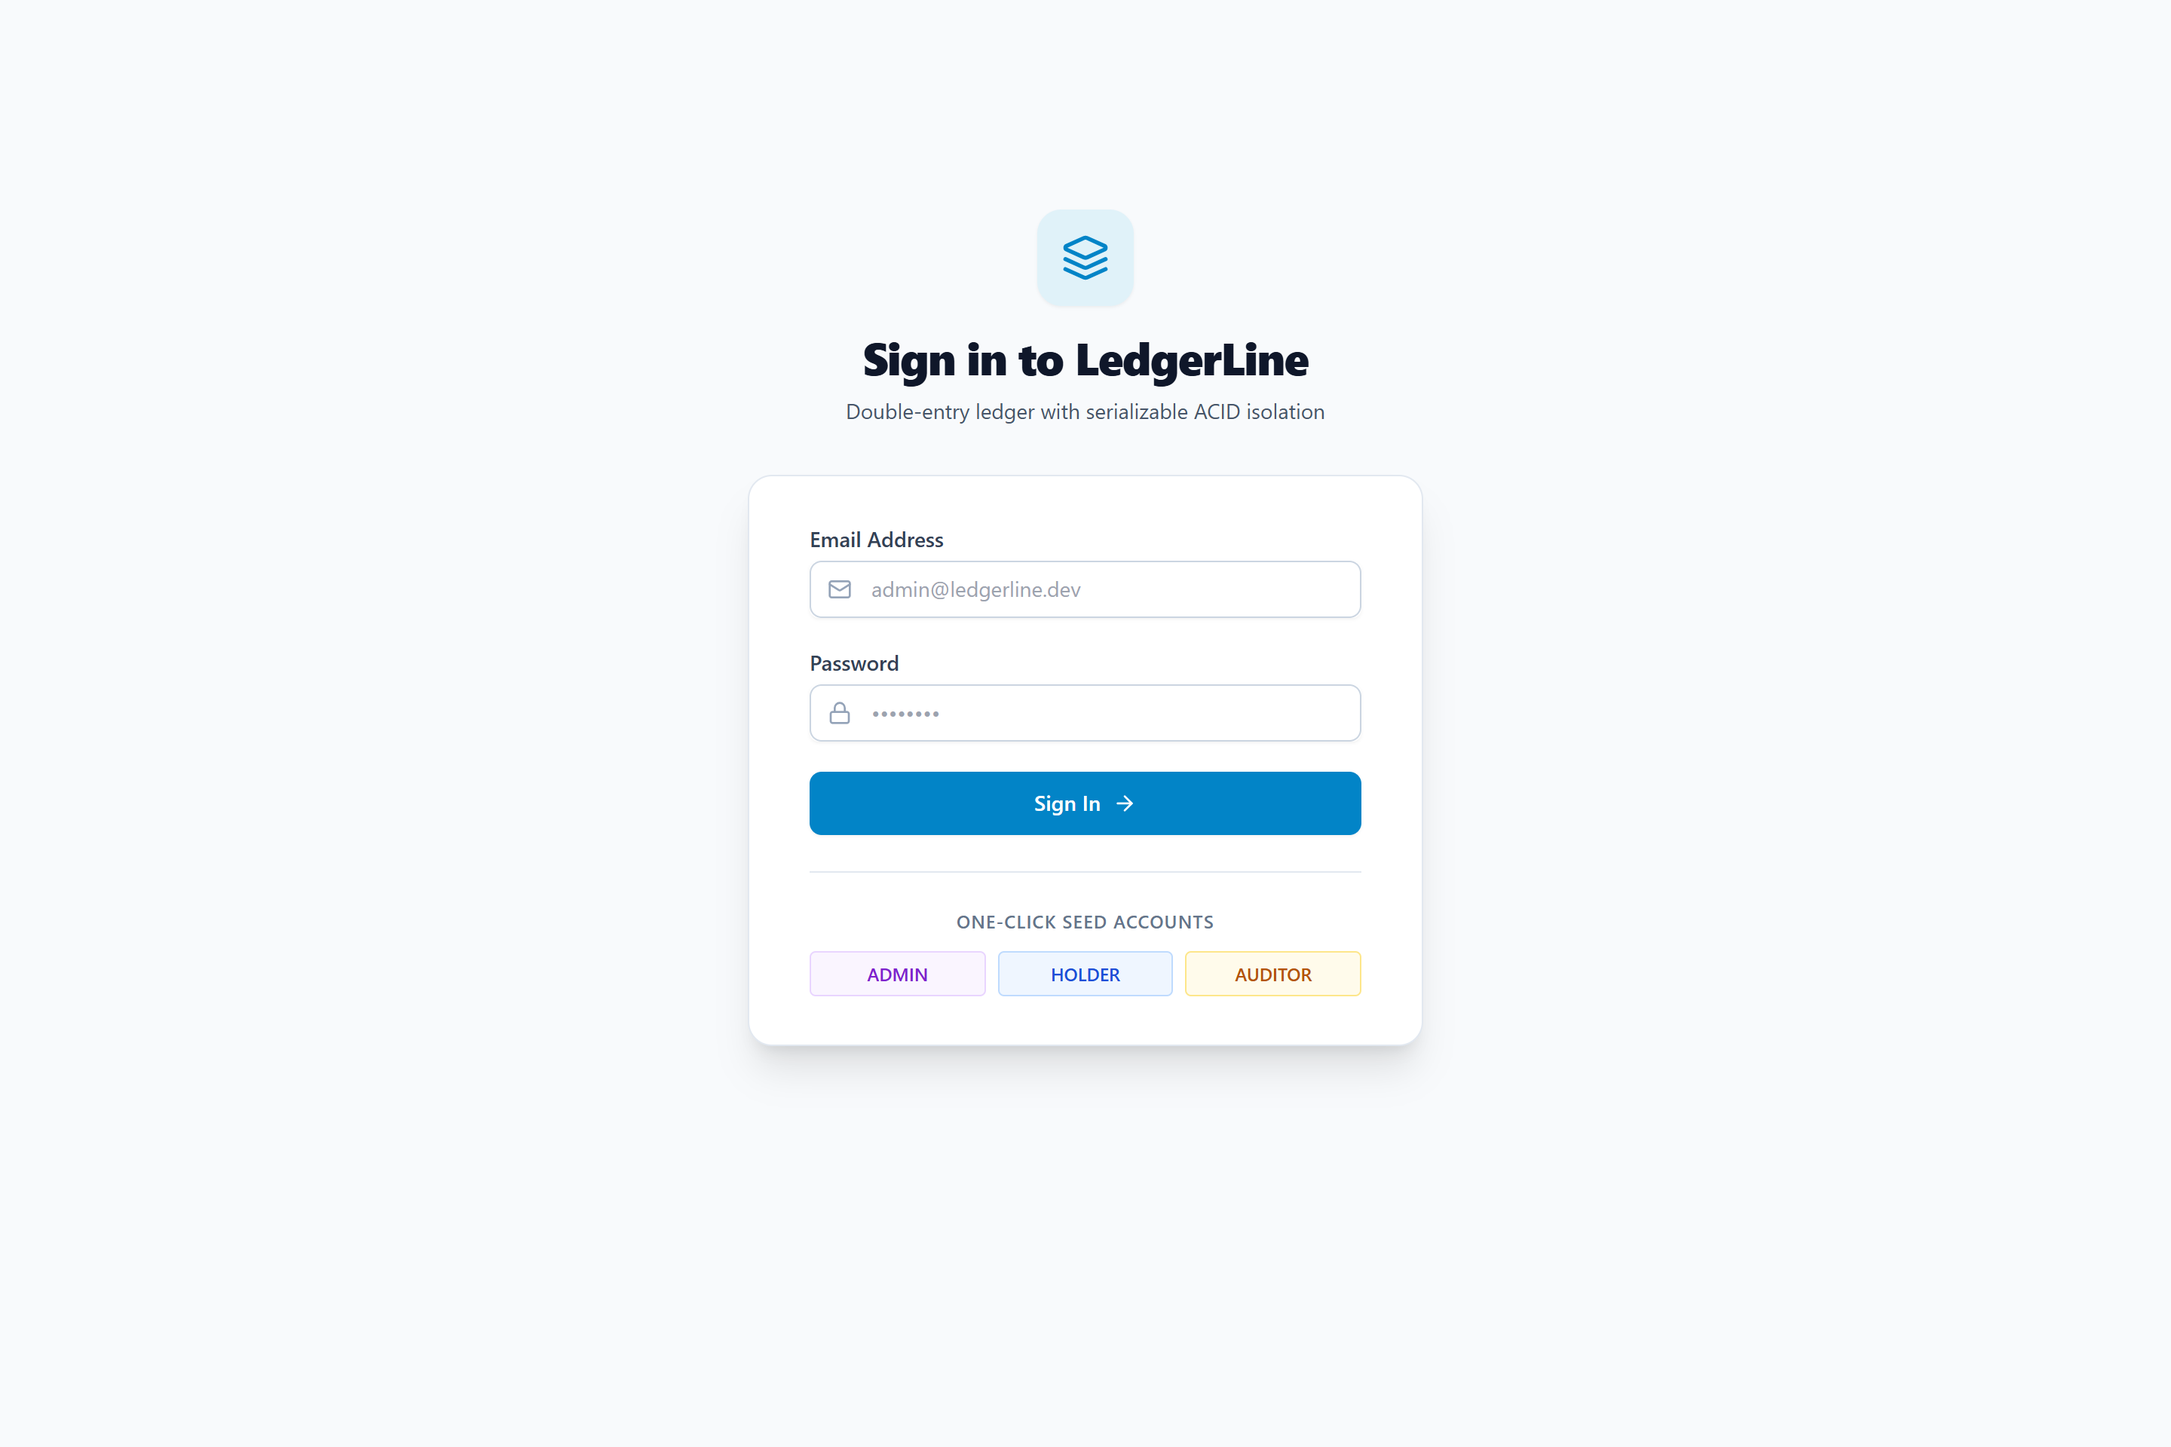
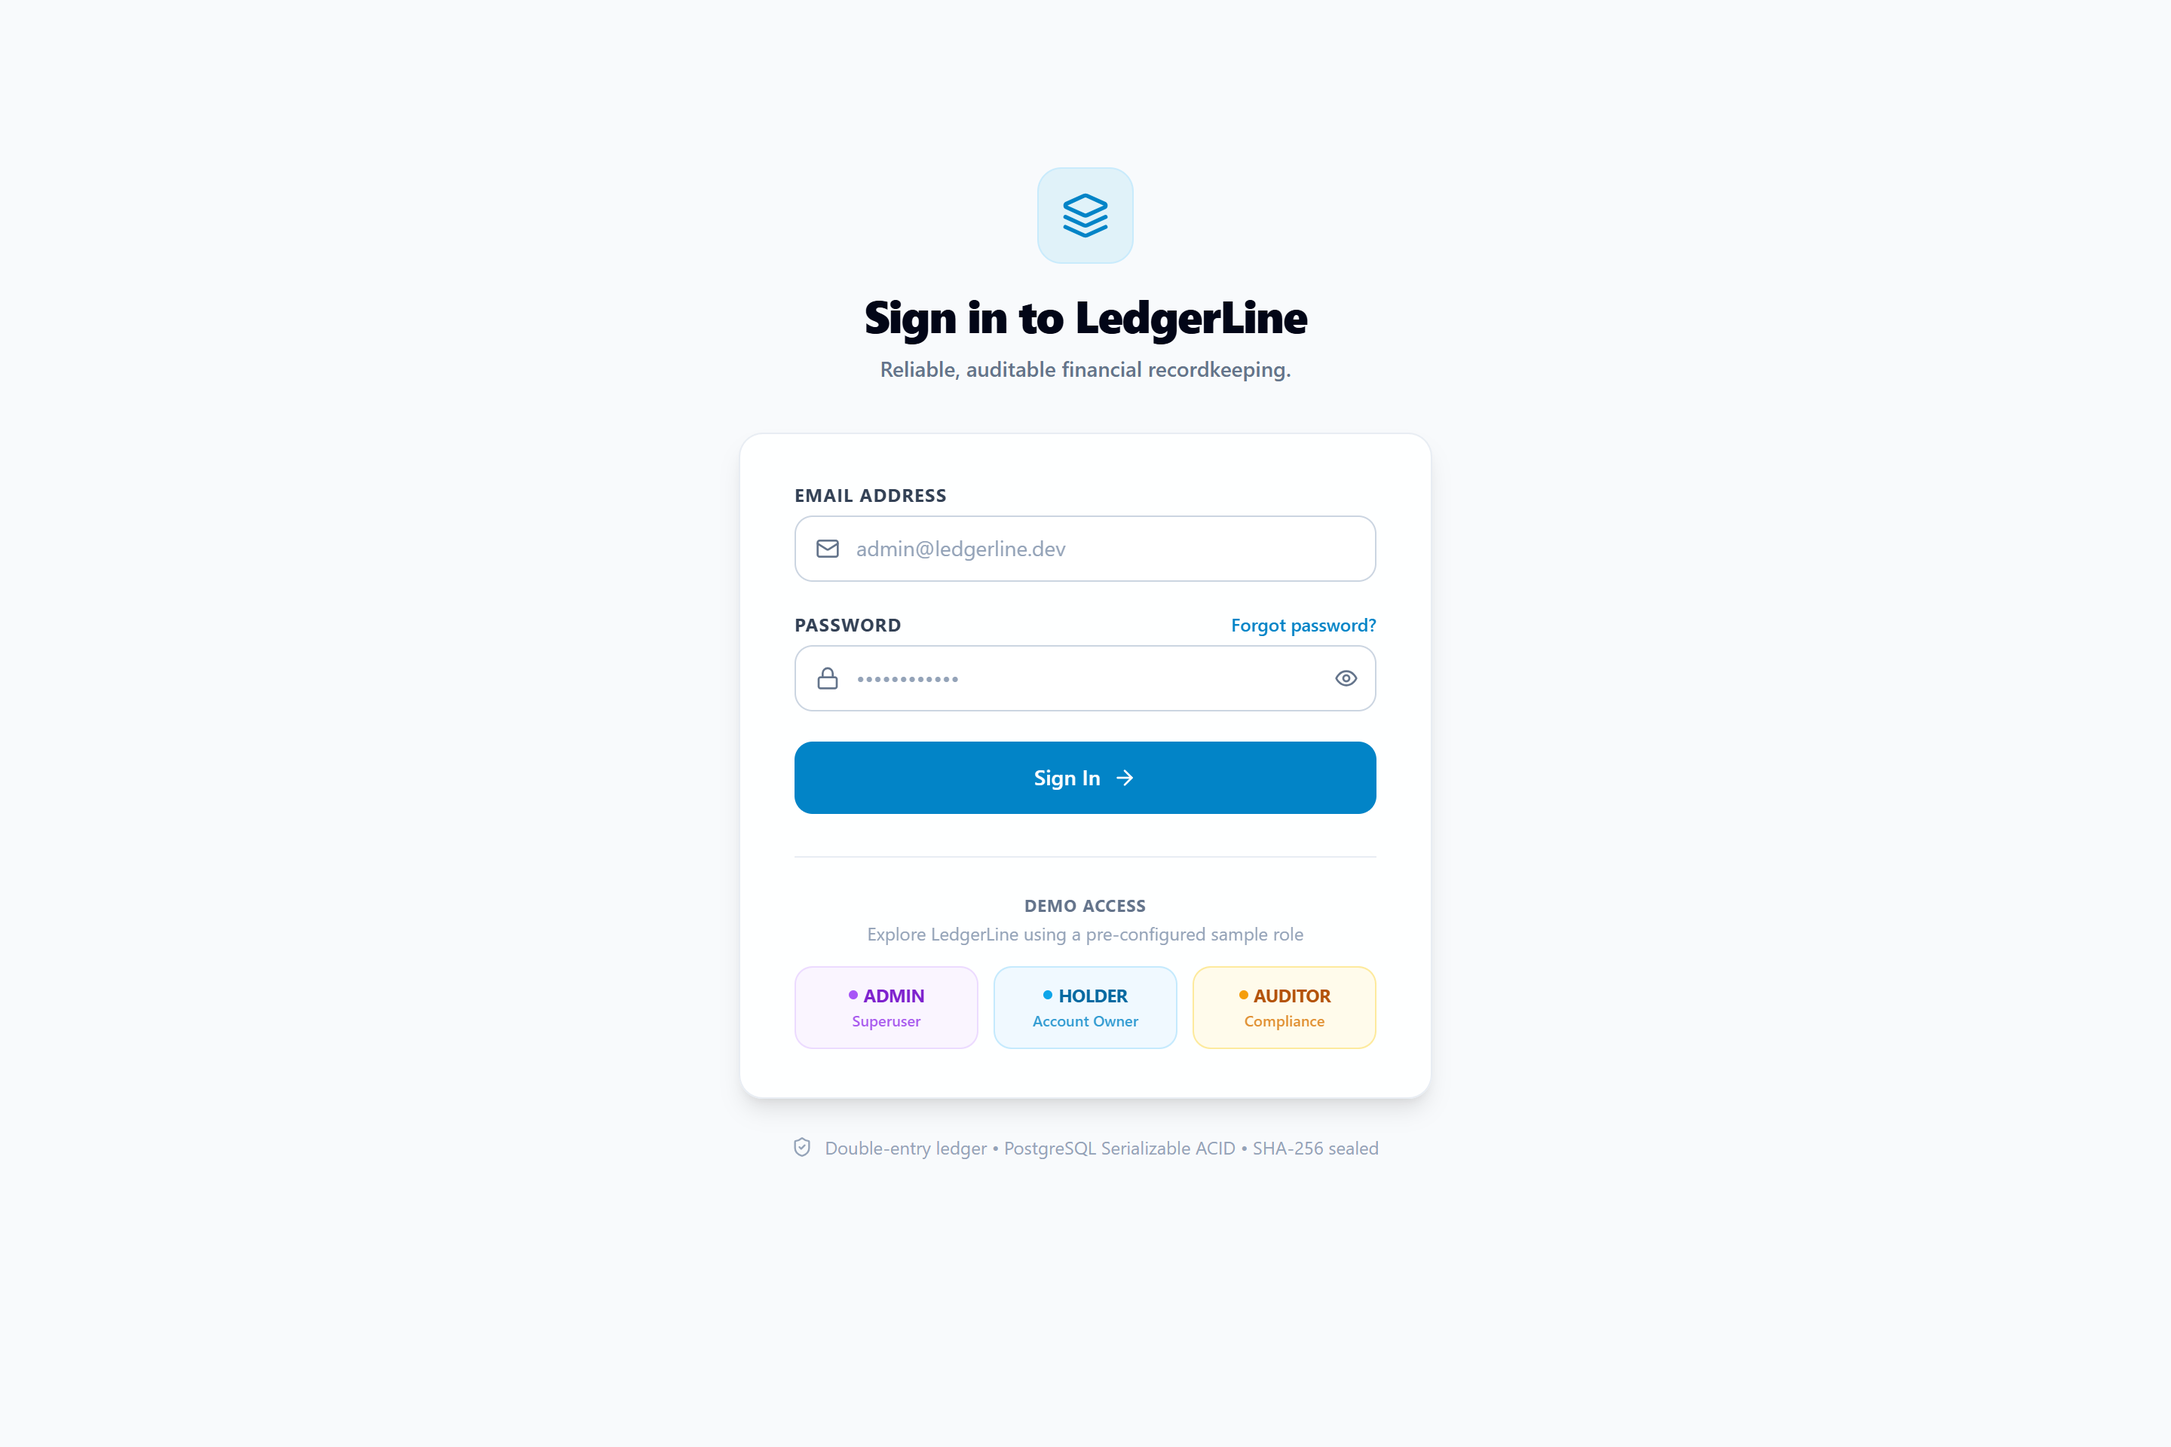
feat(ui): refine screen 01 login ergonomics, password visibility toggle, forgot password flow, and demo role badges

diff --git a/apps/web/app/(auth)/login/page.tsx b/apps/web/app/(auth)/login/page.tsx
@@ -3,12 +3,26 @@
 import React, { useState } from 'react';
 import { useRouter } from 'next/navigation';
 import { setAccessToken, setUser } from '@/lib/auth';
-import { Layers, Lock, Mail, AlertCircle, ArrowRight } from 'lucide-react';
+import {
+  Layers,
+  Lock,
+  Mail,
+  AlertCircle,
+  ArrowRight,
+  Eye,
+  EyeOff,
+  Loader2,
+  ShieldCheck,
+  Info,
+  X,
+} from 'lucide-react';
 
 export default function LoginPage() {
   const router = useRouter();
   const [email, setEmail] = useState('');
   const [password, setPassword] = useState('');
+  const [showPassword, setShowPassword] = useState(false);
+  const [showForgotNotice, setShowForgotNotice] = useState(false);
   const [error, setError] = useState<string | null>(null);
   const [loading, setLoading] = useState(false);
 
@@ -27,7 +41,7 @@ export default function LoginPage() {
 
       const data = await res.json();
       if (!res.ok) {
-        throw new Error(data.error || 'Failed to login');
+        throw new Error(data.error || 'Invalid email or password');
       }
 
       // Store in memory (NEVER in localStorage)
@@ -45,111 +59,222 @@ export default function LoginPage() {
   const handleQuickLogin = (quickEmail: string, quickPass: string) => {
     setEmail(quickEmail);
     setPassword(quickPass);
+    setError(null);
   };
 
   return (
-    <div className="min-h-[80vh] flex flex-col justify-center items-center py-12 px-4 sm:px-6 lg:px-8">
+    <div className="min-h-[85vh] flex flex-col justify-center items-center py-12 px-4 sm:px-6 lg:px-8">
+      {/* Brand Header */}
       <div className="sm:mx-auto sm:w-full sm:max-w-md text-center">
-        <div className="inline-flex items-center justify-center h-16 w-16 rounded-2xl bg-sky-500/10 text-sky-600 mb-4 shadow-sm">
+        <div className="inline-flex items-center justify-center h-16 w-16 rounded-2xl bg-sky-500/10 text-sky-600 mb-4 shadow-xs border border-sky-200/60">
           <Layers className="h-8 w-8" />
         </div>
-        <h2 className="text-3xl font-extrabold text-slate-900 tracking-tight">
+        <h1 className="text-3xl font-extrabold text-slate-950 tracking-tight-display">
           Sign in to LedgerLine
-        </h2>
-        <p className="mt-2 text-sm text-slate-600">
-          Double-entry ledger with serializable ACID isolation
+        </h1>
+        <p className="mt-2 text-sm text-slate-500 font-medium">
+          Reliable, auditable financial recordkeeping.
         </p>
       </div>
 
-      <div className="mt-8 sm:mx-auto sm:w-full sm:max-w-md">
-        <div className="bg-white py-8 px-6 shadow-xl rounded-2xl sm:px-10 border border-slate-200">
+      {/* Main Authentication Card */}
+      <div className="mt-8 sm:mx-auto sm:w-full sm:max-w-[460px]">
+        <div className="bg-white/90 backdrop-blur-md py-8 px-6 sm:px-9 shadow-lg rounded-2xl border border-slate-200/80">
+          {/* Error Banner */}
           {error && (
-            <div className="mb-4 p-3 bg-red-50 border border-red-200 rounded-lg flex items-center space-x-2 text-sm text-red-700">
-              <AlertCircle className="h-4 w-4 shrink-0" />
-              <span>{error}</span>
+            <div
+              role="alert"
+              className="mb-5 p-3.5 bg-red-50/90 border border-red-200 rounded-xl flex items-start space-x-3 text-sm text-red-700 animate-in fade-in-50 duration-200"
+            >
+              <AlertCircle className="h-5 w-5 shrink-0 text-red-600 mt-0.5" />
+              <div className="flex-1">
+                <p className="font-semibold text-red-900">Authentication Failed</p>
+                <p className="text-red-700 mt-0.5 text-xs">{error}</p>
+              </div>
             </div>
           )}
 
-          <form className="space-y-5" onSubmit={handleSubmit}>
+          {/* Forgot Password Information Banner */}
+          {showForgotNotice && (
+            <div className="mb-5 p-3.5 bg-sky-50 border border-sky-200 rounded-xl text-xs text-sky-900 flex items-start space-x-2.5 animate-in fade-in-50 duration-200">
+              <Info className="h-4 w-4 shrink-0 text-sky-600 mt-0.5" />
+              <div className="flex-1">
+                <p className="font-semibold text-sky-950">Password Recovery</p>
+                <p className="text-sky-800 mt-0.5">
+                  In LedgerLine&apos;s multi-tenant core engine, credentials are managed by your administrator. Contact security operations or select a demo role below to explore.
+                </p>
+              </div>
+              <button
+                type="button"
+                onClick={() => setShowForgotNotice(false)}
+                className="text-sky-600 hover:text-sky-900 p-0.5 rounded transition"
+                aria-label="Dismiss notice"
+              >
+                <X className="h-3.5 w-3.5" />
+              </button>
+            </div>
+          )}
+
+          <form className="space-y-5" onSubmit={handleSubmit} noValidate>
+            {/* Email Field */}
             <div>
-              <label className="block text-sm font-medium text-slate-700">
+              <label
+                htmlFor="email"
+                className="block text-xs font-bold uppercase tracking-wider text-slate-700 mb-1.5"
+              >
                 Email Address
               </label>
-              <div className="mt-1 relative rounded-md shadow-sm">
-                <div className="absolute inset-y-0 left-0 pl-3 flex items-center pointer-events-none text-slate-400">
+              <div className="relative rounded-xl shadow-2xs">
+                <div className="absolute inset-y-0 left-0 pl-3.5 flex items-center pointer-events-none text-slate-500">
                   <Mail className="h-4 w-4" />
                 </div>
                 <input
+                  id="email"
+                  name="email"
                   type="email"
                   required
+                  autoComplete="email"
                   value={email}
                   onChange={(e) => setEmail(e.target.value)}
-                  className="block w-full pl-10 pr-3 py-2 border border-slate-300 rounded-lg focus:outline-none focus:ring-2 focus:ring-sky-500 focus:border-sky-500 text-sm"
+                  className="h-11 w-full pl-10 pr-3.5 rounded-xl border border-slate-300 bg-white text-sm text-slate-900 placeholder:text-slate-400 focus-visible:outline-none focus-visible:ring-2 focus-visible:ring-sky-500 focus-visible:border-sky-500 transition"
                   placeholder="admin@ledgerline.dev"
                 />
               </div>
             </div>
 
+            {/* Password Field */}
             <div>
-              <label className="block text-sm font-medium text-slate-700">
-                Password
-              </label>
-              <div className="mt-1 relative rounded-md shadow-sm">
-                <div className="absolute inset-y-0 left-0 pl-3 flex items-center pointer-events-none text-slate-400">
+              <div className="flex items-center justify-between mb-1.5">
+                <label
+                  htmlFor="password"
+                  className="block text-xs font-bold uppercase tracking-wider text-slate-700"
+                >
+                  Password
+                </label>
+                <button
+                  type="button"
+                  onClick={() => setShowForgotNotice(true)}
+                  className="text-xs font-medium text-sky-600 hover:text-sky-700 focus-visible:outline-none focus-visible:underline transition pressable"
+                >
+                  Forgot password?
+                </button>
+              </div>
+              <div className="relative rounded-xl shadow-2xs">
+                <div className="absolute inset-y-0 left-0 pl-3.5 flex items-center pointer-events-none text-slate-500">
                   <Lock className="h-4 w-4" />
                 </div>
                 <input
-                  type="password"
+                  id="password"
+                  name="password"
+                  type={showPassword ? 'text' : 'password'}
                   required
+                  autoComplete="current-password"
                   value={password}
                   onChange={(e) => setPassword(e.target.value)}
-                  className="block w-full pl-10 pr-3 py-2 border border-slate-300 rounded-lg focus:outline-none focus:ring-2 focus:ring-sky-500 focus:border-sky-500 text-sm"
-                  placeholder="••••••••"
+                  className="h-11 w-full pl-10 pr-10 rounded-xl border border-slate-300 bg-white text-sm text-slate-900 placeholder:text-slate-400 focus-visible:outline-none focus-visible:ring-2 focus-visible:ring-sky-500 focus-visible:border-sky-500 transition"
+                  placeholder="••••••••••••"
                 />
+                <button
+                  type="button"
+                  onClick={() => setShowPassword(!showPassword)}
+                  aria-label={showPassword ? 'Hide password' : 'Show password'}
+                  className="absolute inset-y-0 right-0 pr-3 flex items-center text-slate-400 hover:text-slate-600 focus-visible:outline-none focus-visible:text-slate-700 transition"
+                >
+                  {showPassword ? (
+                    <EyeOff className="h-4 w-4 text-slate-500" />
+                  ) : (
+                    <Eye className="h-4 w-4 text-slate-500" />
+                  )}
+                </button>
               </div>
             </div>
 
+            {/* Primary Submit Button */}
             <button
               type="submit"
               disabled={loading}
-              className="w-full flex justify-center items-center py-2.5 px-4 border border-transparent rounded-lg shadow-sm text-sm font-semibold text-white bg-sky-600 hover:bg-sky-700 focus:outline-none focus:ring-2 focus:ring-offset-2 focus:ring-sky-500 disabled:opacity-50 transition"
+              className="h-12 w-full flex justify-center items-center py-2.5 px-4 rounded-xl shadow-xs text-sm font-semibold text-white bg-sky-600 hover:bg-sky-700 focus-visible:outline-none focus-visible:ring-2 focus-visible:ring-offset-2 focus-visible:ring-sky-500 disabled:opacity-60 disabled:cursor-not-allowed transition pressable"
             >
-              {loading ? 'Authenticating...' : 'Sign In'}
-              {!loading && <ArrowRight className="ml-2 h-4 w-4" />}
+              {loading ? (
+                <>
+                  <Loader2 className="mr-2 h-4 w-4 animate-spin text-white" />
+                  <span>Authenticating...</span>
+                </>
+              ) : (
+                <>
+                  <span>Sign In</span>
+                  <ArrowRight className="ml-2 h-4 w-4" />
+                </>
+              )}
             </button>
           </form>
 
-          <div className="mt-6 pt-6 border-t border-slate-200">
-            <p className="text-xs font-semibold text-slate-500 uppercase tracking-wider text-center mb-3">
-              One-Click Seed Accounts
-            </p>
-            <div className="grid grid-cols-3 gap-2">
+          {/* Demo Access Section */}
+          <div className="mt-7 pt-6 border-t border-slate-200/80">
+            <div className="text-center mb-3.5">
+              <span className="text-[11px] font-bold text-slate-500 uppercase tracking-wider block">
+                Demo Access
+              </span>
+              <p className="text-xs text-slate-400 mt-0.5">
+                Explore LedgerLine using a pre-configured sample role
+              </p>
+            </div>
+
+            <div className="grid grid-cols-3 gap-2.5">
               <button
                 type="button"
                 onClick={() => handleQuickLogin('admin@ledgerline.dev', 'Admin1234!')}
-                className="py-1.5 px-2 bg-purple-50 hover:bg-purple-100 text-purple-700 border border-purple-200 rounded text-xs font-medium transition"
+                className="py-2.5 px-2 bg-purple-50 hover:bg-purple-100/80 text-purple-700 border border-purple-200/80 rounded-xl text-center transition pressable focus-visible:outline-none focus-visible:ring-2 focus-visible:ring-purple-500"
+                aria-label="Sign in as Admin demo account"
               >
-                ADMIN
+                <div className="flex items-center justify-center space-x-1 mb-0.5">
+                  <span className="h-1.5 w-1.5 rounded-full bg-purple-500"></span>
+                  <span className="text-xs font-bold tracking-tight">ADMIN</span>
+                </div>
+                <span className="text-[10px] text-purple-600/80 font-medium block">
+                  Superuser
+                </span>
               </button>
+
               <button
                 type="button"
                 onClick={() => handleQuickLogin('holder@ledgerline.dev', 'Holder1234!')}
-                className="py-1.5 px-2 bg-blue-50 hover:bg-blue-100 text-blue-700 border border-blue-200 rounded text-xs font-medium transition"
+                className="py-2.5 px-2 bg-sky-50 hover:bg-sky-100/80 text-sky-700 border border-sky-200/80 rounded-xl text-center transition pressable focus-visible:outline-none focus-visible:ring-2 focus-visible:ring-sky-500"
+                aria-label="Sign in as Holder demo account"
               >
-                HOLDER
+                <div className="flex items-center justify-center space-x-1 mb-0.5">
+                  <span className="h-1.5 w-1.5 rounded-full bg-sky-500"></span>
+                  <span className="text-xs font-bold tracking-tight">HOLDER</span>
+                </div>
+                <span className="text-[10px] text-sky-600/80 font-medium block">
+                  Account Owner
+                </span>
               </button>
+
               <button
                 type="button"
                 onClick={() => handleQuickLogin('auditor@ledgerline.dev', 'Audit1234!')}
-                className="py-1.5 px-2 bg-amber-50 hover:bg-amber-100 text-amber-700 border border-amber-200 rounded text-xs font-medium transition"
+                className="py-2.5 px-2 bg-amber-50 hover:bg-amber-100/80 text-amber-700 border border-amber-200/80 rounded-xl text-center transition pressable focus-visible:outline-none focus-visible:ring-2 focus-visible:ring-amber-500"
+                aria-label="Sign in as Auditor demo account"
               >
-                AUDITOR
+                <div className="flex items-center justify-center space-x-1 mb-0.5">
+                  <span className="h-1.5 w-1.5 rounded-full bg-amber-500"></span>
+                  <span className="text-xs font-bold tracking-tight">AUDITOR</span>
+                </div>
+                <span className="text-[10px] text-amber-600/80 font-medium block">
+                  Compliance
+                </span>
               </button>
             </div>
           </div>
+        </div>
+
+        {/* Security / Engine Trust Badge */}
+        <div className="mt-6 flex items-center justify-center space-x-2 text-xs text-slate-400">
+          <ShieldCheck className="h-3.5 w-3.5 text-slate-400" />
+          <span>Double-entry ledger • PostgreSQL Serializable ACID • SHA-256 sealed</span>
         </div>
       </div>
     </div>
   );
 }
-
